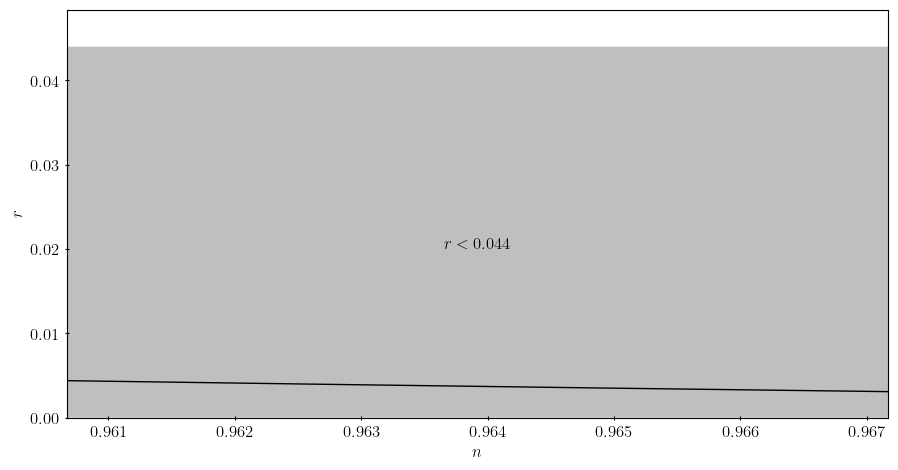
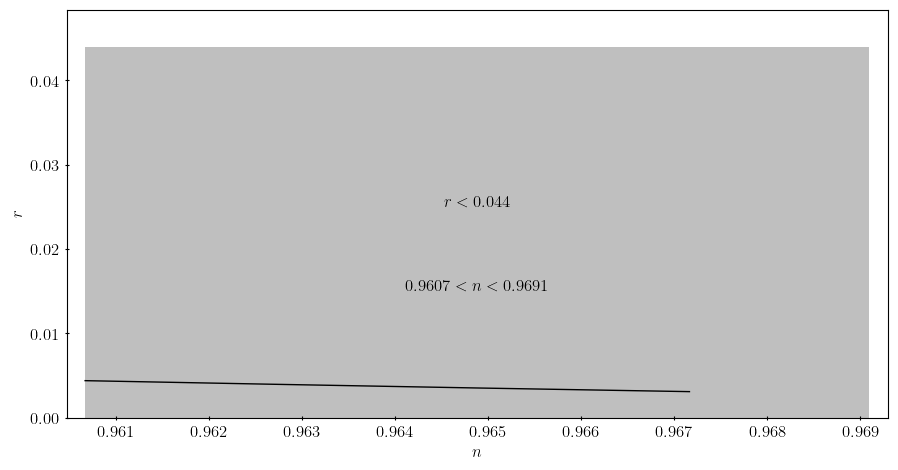
Added constraints on the scalar spectral index

diff --git a/project-3/inflation.py b/project-3/inflation.py
@@ -387,11 +387,24 @@ class InflationModel:
 
 		r = 16 * self.epsilon[N_idx]
 
-		x_text = np.max(n) - (np.max(n) - np.min(n)) / 2
+		if not include_approx:
 
-		y_max = np.max([np.max(r), 0.044])
+			print('\nr and n values for the ' + self.name + 'model:')
+			print(f'r_min = {np.min(r):.3f}')
+			print(f'r_max = {np.max(r):.3f}')
+			print(f'n_min = {np.min(n):.4f}')
+			print(f'n_max = {np.max(n):.4f}')
 
-		fill_x = n
+		r_max = 0.044
+		n_min, n_max = 0.9607, 0.9691
+
+		y_max = np.max([np.max(r), r_max])
+		x_min = np.min([np.min(n), n_min])
+		x_max = np.max([np.max(n), n_max])
+		x = [x_min, x_max]
+
+		x_text = x_max - (x_max - x_min) / 2
+		xlabels = np.arange(float(f'{x_min:.3f}'), float(f'{x_max:.3f}'), 0.001)
 
 		fig, ax = plt.subplots()
 
@@ -409,17 +422,26 @@ class InflationModel:
 
 			if include_approx:
 
+				print('\nr and n values for the ' + self.name + 'model approximation:')
+				print(f'r_min = {np.min(r_SRA):.3f}')
+				print(f'r_max = {np.max(r_SRA):.3f}')
+				print(f'n_min = {np.min(n_SRA):.4f}')
+				print(f'n_max = {np.max(n_SRA):.4f}\n')
+
 				ax.plot(n_SRA, r_SRA, ls='dotted', label='Approx.')
 				ax.legend()
 
-				fill_x = [np.min([np.min(n), np.min(n_SRA)]), np.max([np.max(n), np.max(n_SRA)])]
+				x_min = np.min([np.min(n), n_min, np.min(n_SRA)])
+
 				save_name += 'with_approx_'
 
-		ax.fill_between(fill_x, 0.044, alpha=0.25)
-		ax.text(x_text, 0.02, r'$r<0.044$', ha='center')
+		ax.fill_between(x, r_max, alpha=0.25)
+		ax.text(x_text, 0.025, r'$r<0.044$', ha='center')
+		ax.text(x_text, 0.015, r'$0.9607<n<0.9691$', ha='center')
 		ax.set_xlabel(r'$n$')
 		ax.set_ylabel(r'$r$')
-		ax.set_xlim([np.min(fill_x), np.max(fill_x)])
+		ax.set_xlim([x_min - 0.0002, x_max + 0.0002])
+		ax.set_xticks(xlabels)
 		ax.set_ylim([0, 1.1 * y_max])
 
 		fig.savefig('figures/' + save_name + 'n-r-plane.pdf', bbox_inches='tight')
